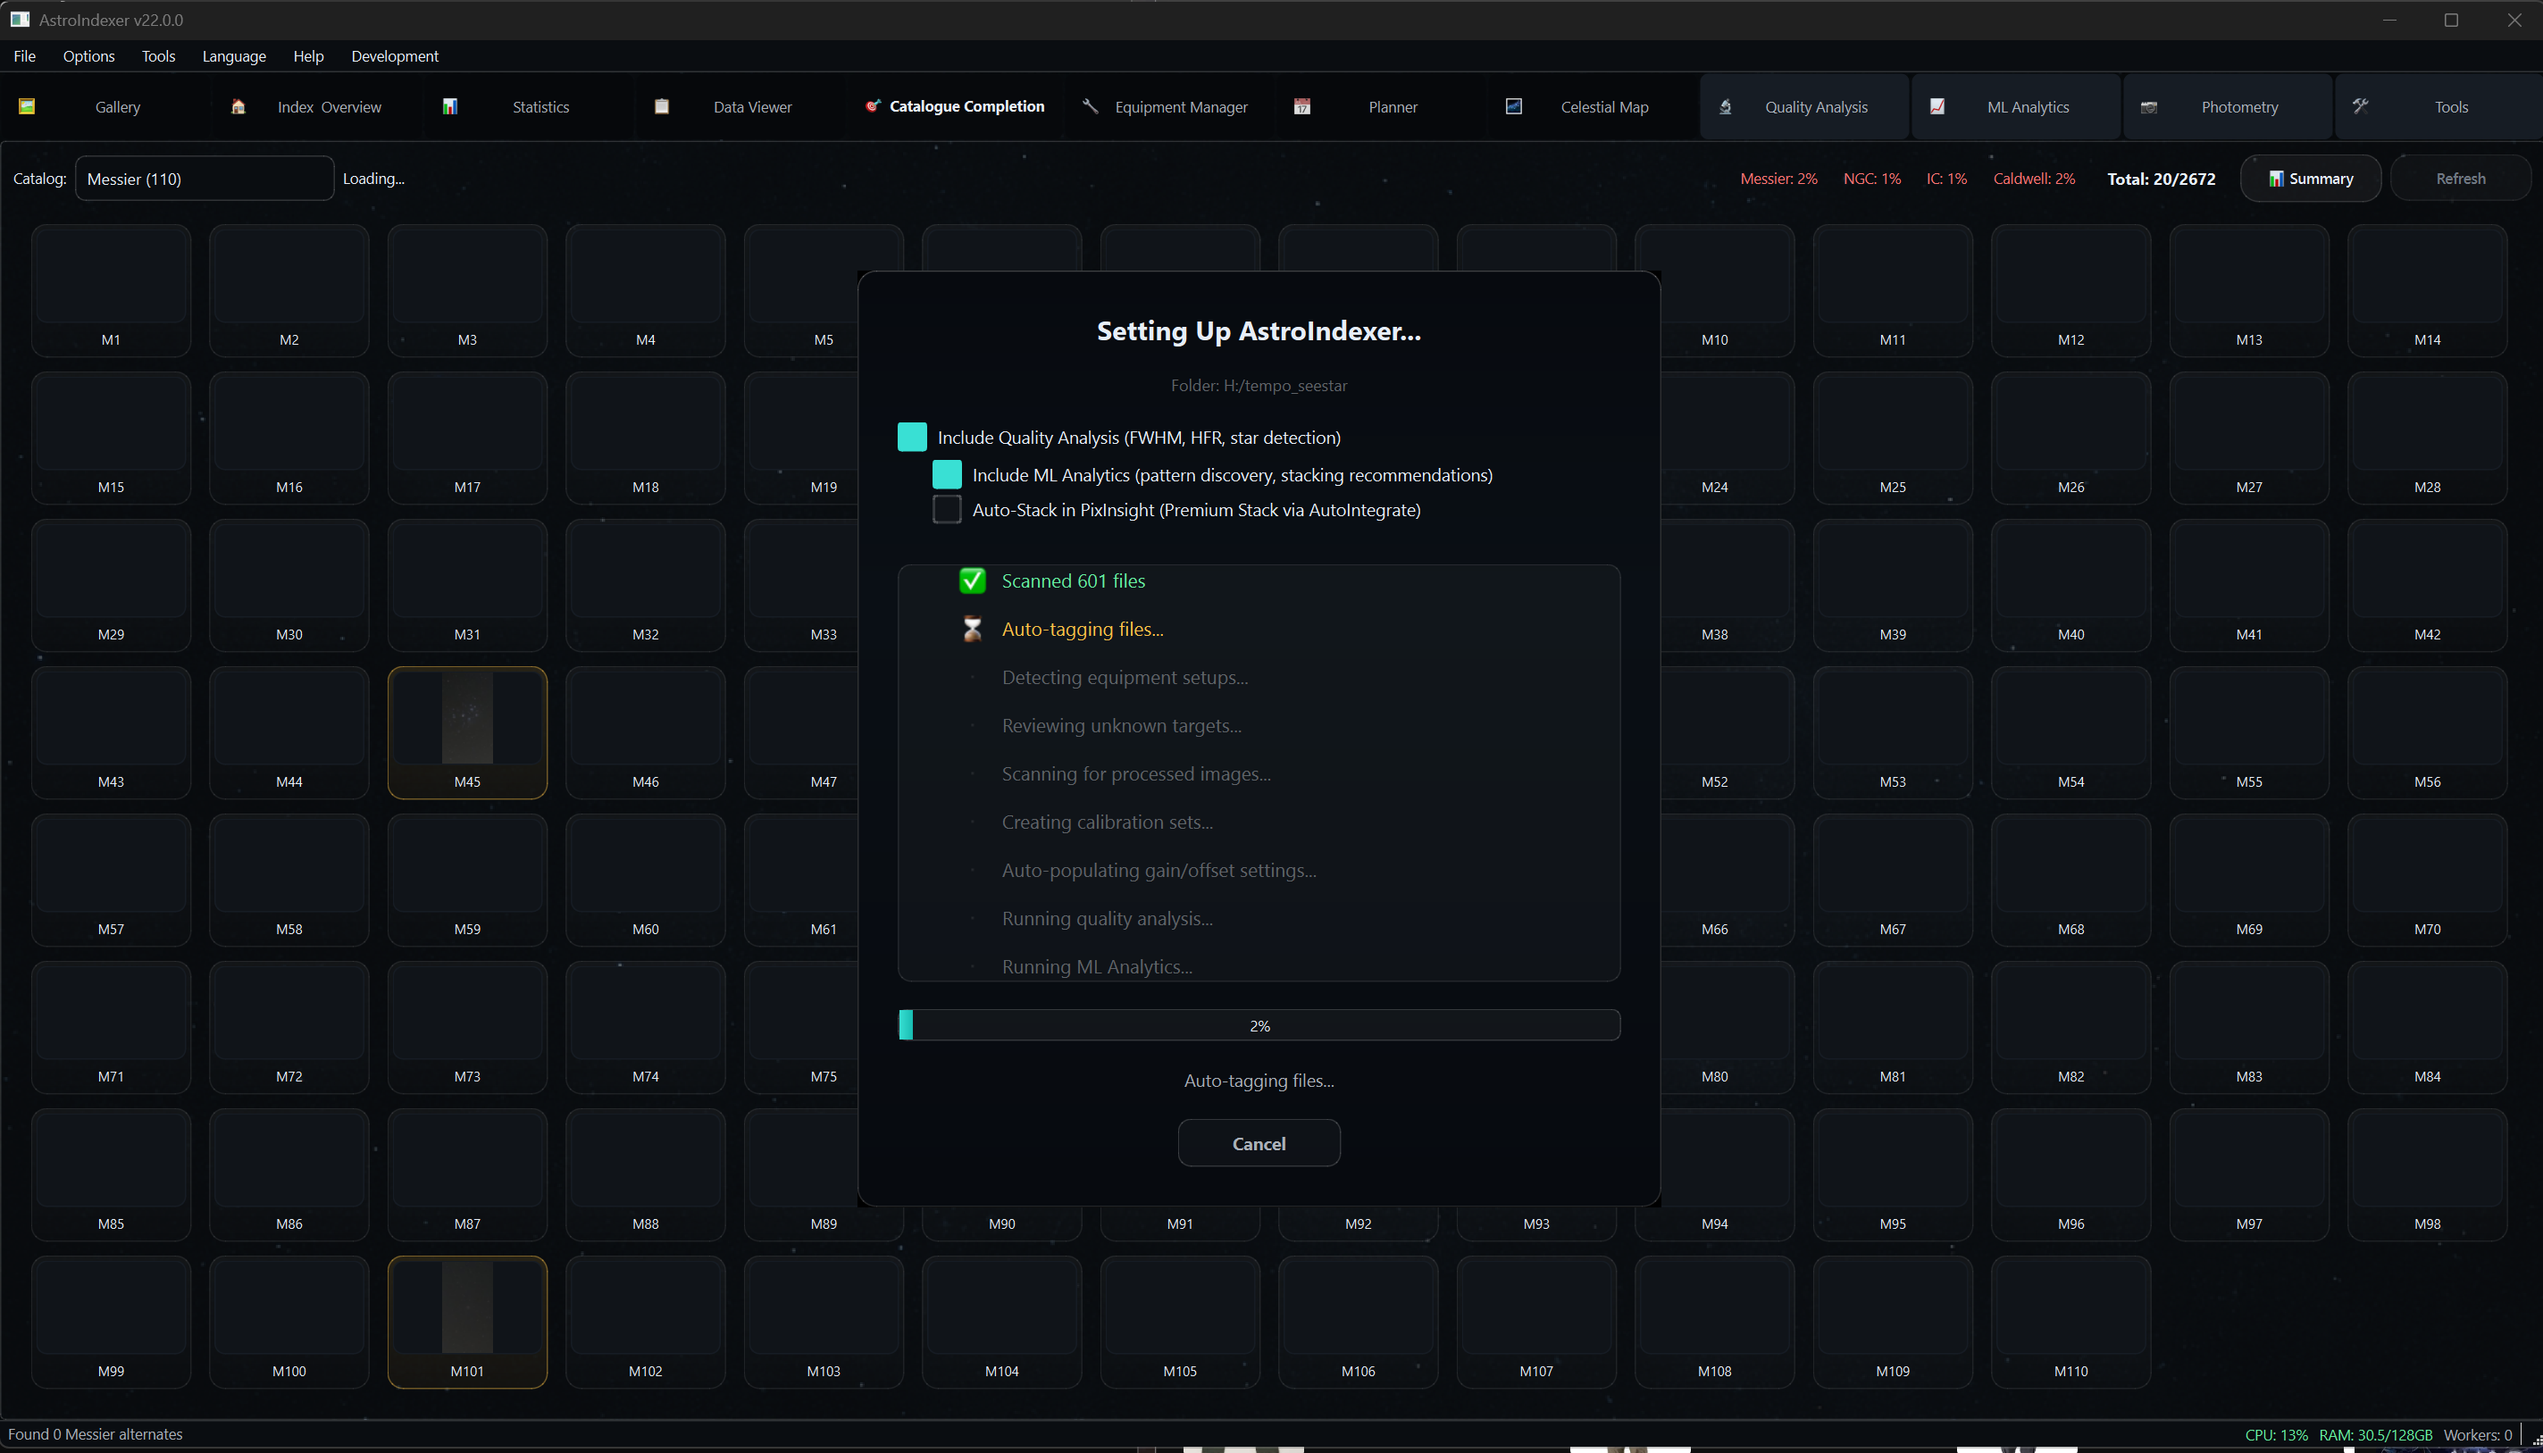
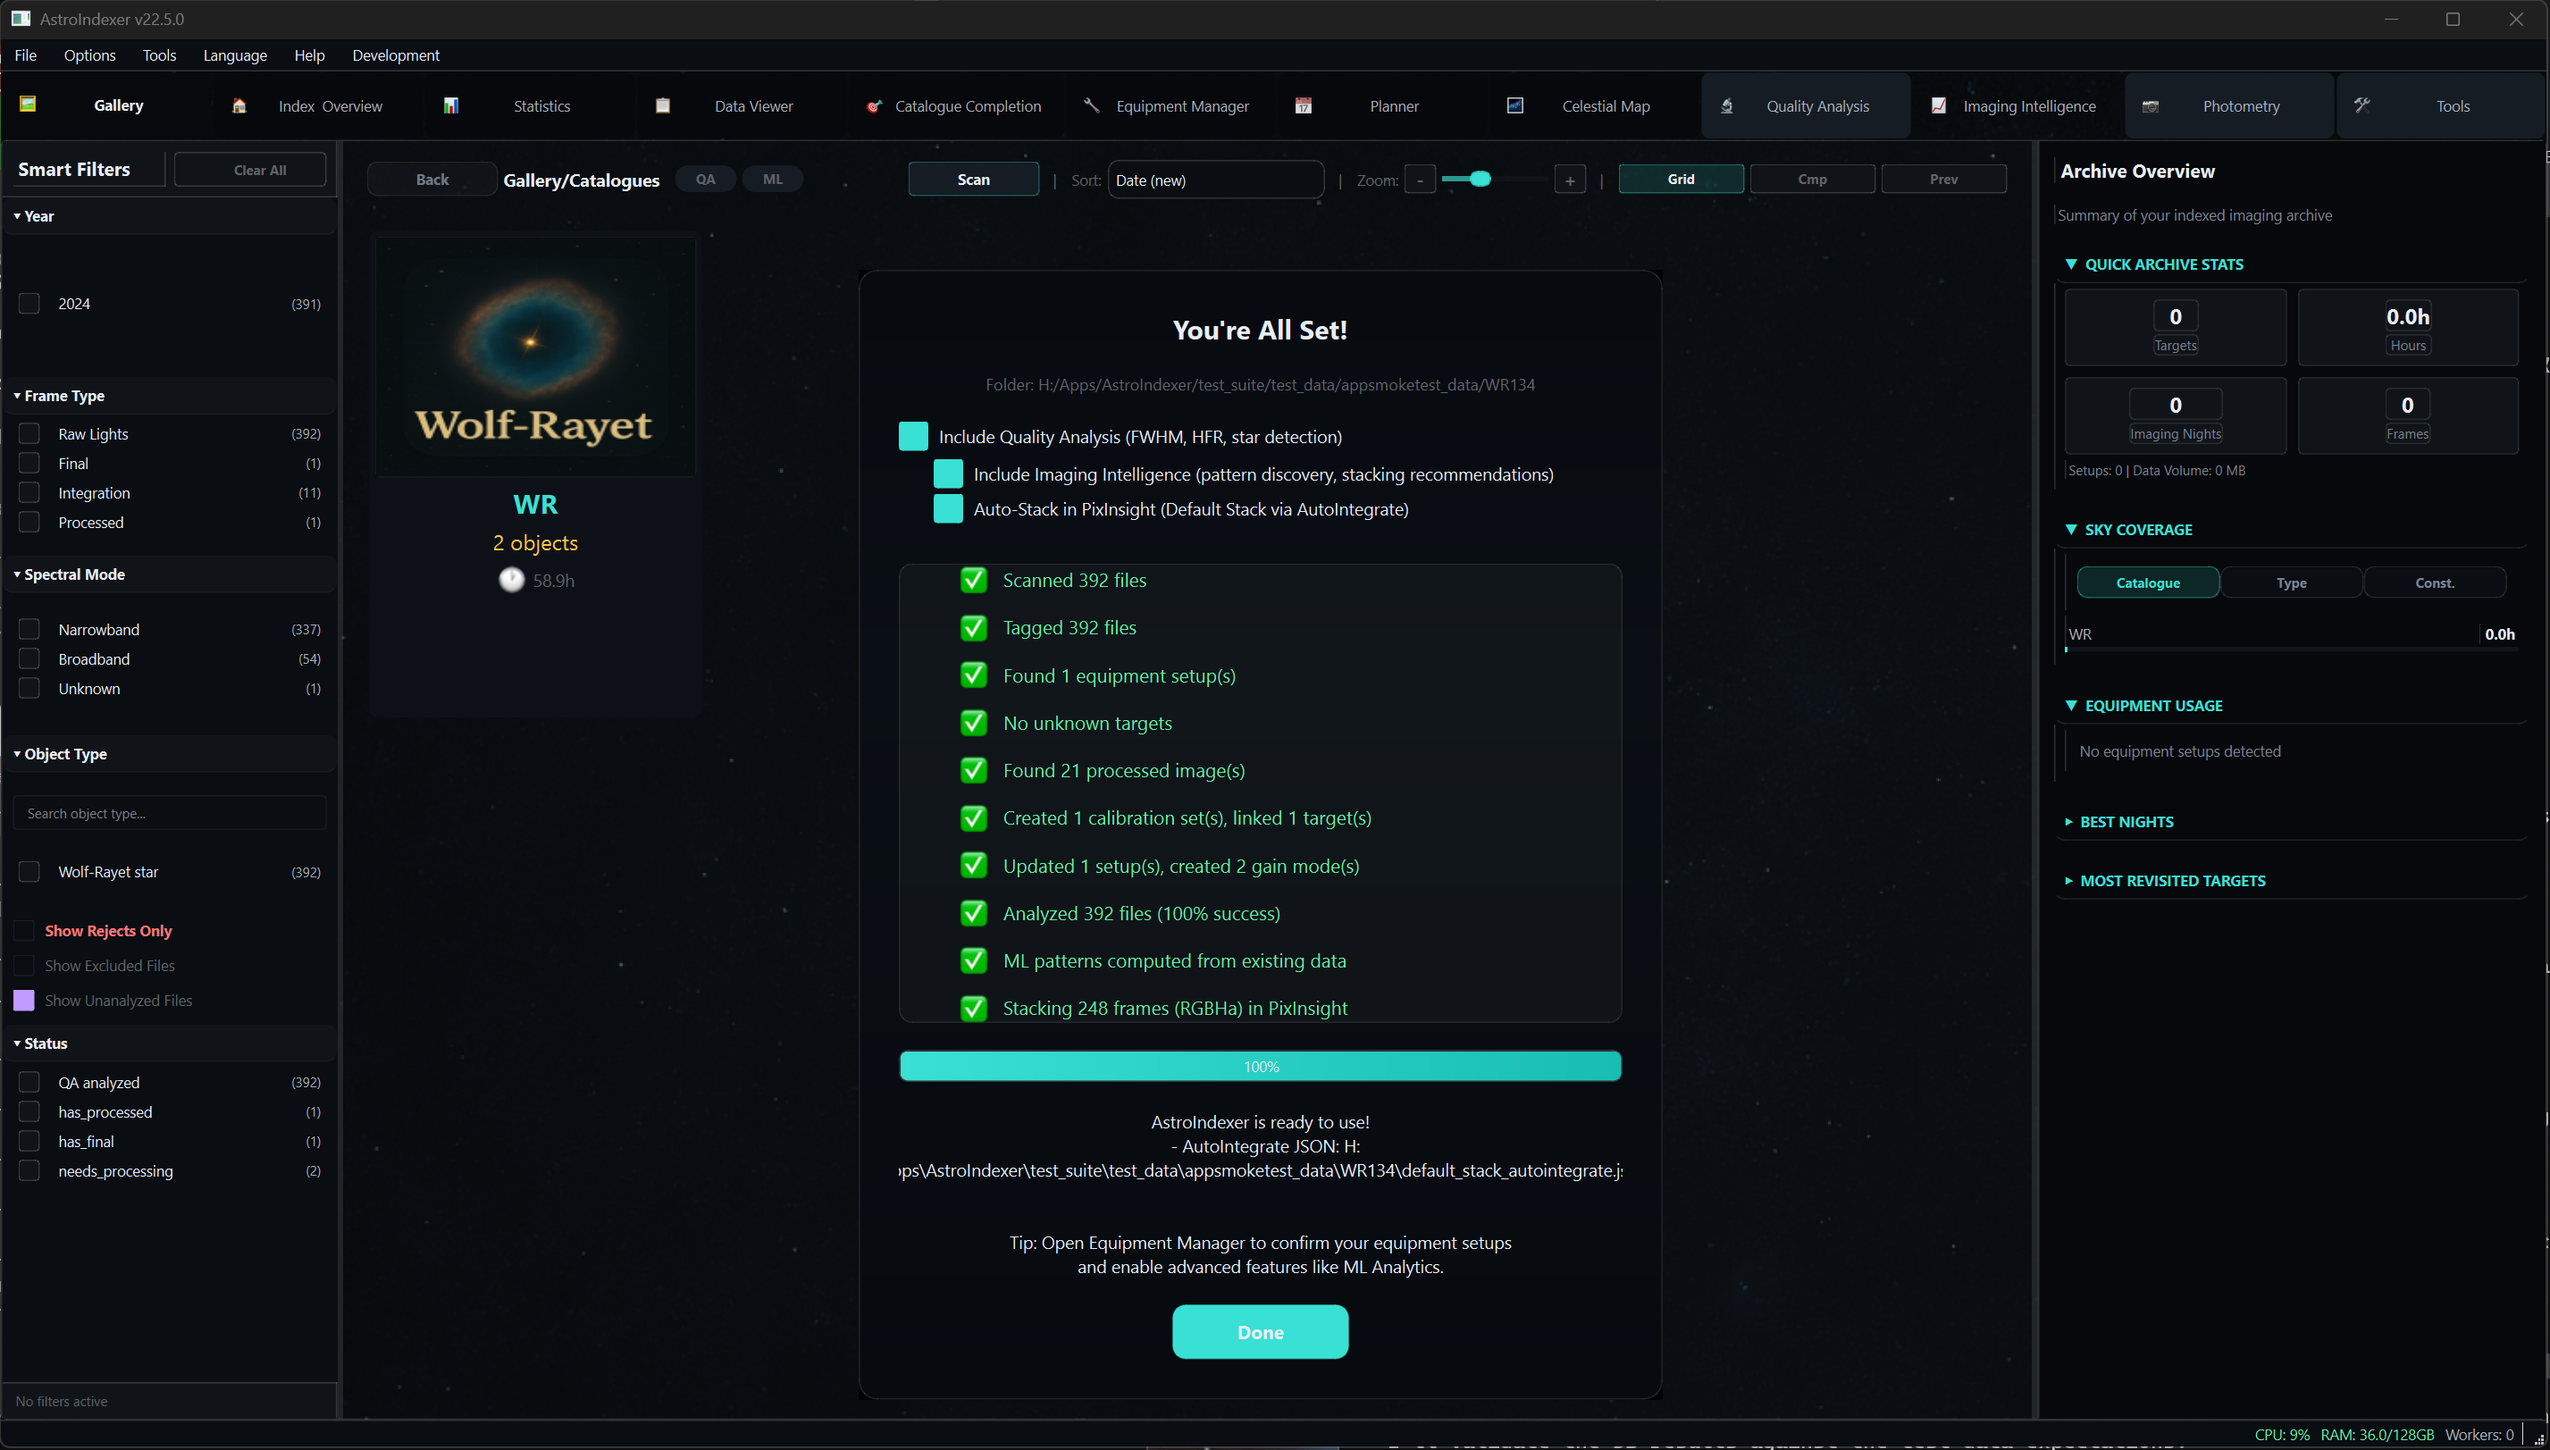
docs: update autopilot screenshot — full pipeline with PixInsight autostacking
Shows completed 10-step pipeline: scan, tag, equipment detection, calibration,
QA analysis (392 files, 100% success), ML patterns, and PixInsight AutoIntegrate
stacking 248 RGBHa frames. Updated alt text to match.

diff --git a/index.html b/index.html
@@ -483,7 +483,7 @@
                     </ul>
                 </div>
                 <div class="feature-screenshot">
-                    <img src="screenshots/autopilot.png" alt="Autopilot Setup Screenshot" loading="lazy">
+                    <img src="screenshots/autopilot.png" alt="Autopilot full pipeline complete — scanning, QA, ML patterns, and PixInsight AutoIntegrate stacking" loading="lazy">
                 </div>
             </div>
 
